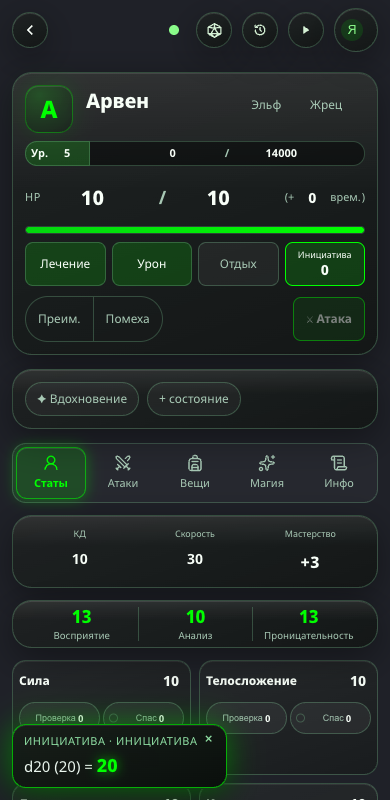
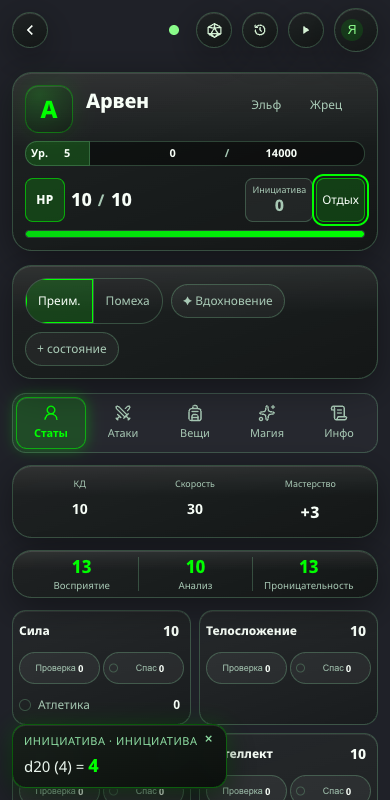
feat(character-sheet): the rest ends the HP line on a phone; the roll mode comes before inspiration
On a phone the rest button stands to the right of the initiative roll, in the
HP line, which still fits one row at 320 px with three-digit hit points and
temporary ones. A wide screen keeps the rest among the states.

In the states block advantage / disadvantage now comes first, then
inspiration.

diff --git a/src/components/DndCharacterSheet.vue b/src/components/DndCharacterSheet.vue
@@ -46,7 +46,9 @@
         <!-- The maximum is set once (and on a level-up): a field in setup mode only. -->
         <input type="number" min="1" :readonly="locked" :tabindex="locked ? -1 : undefined" :value="data.combat.maxHp" :style="{ width: numberWidth(data.combat.maxHp) }" aria-label="Максимум HP" @change="setNumber(data.combat, 'maxHp', evVal($event), 1)" />
         <label class="dnd-cs-temp-hp" :class="{ 'is-none': !data.combat.temporaryHp }" title="Временные HP">(+<input type="number" readonly tabindex="-1" :value="data.combat.temporaryHp" :style="{ width: numberWidth(data.combat.temporaryHp, 2) }" aria-label="Временные HP" /><span>врем.</span>)</label>
-        <button type="button" class="dnd-cs-init-button" aria-label="Бросить инициативу" title="Бросить инициативу: d20 + модификатор" @click="roll('initiative', 'Инициатива', initiative)"><span>Инициатива</span><b>{{ formatModifier(initiative) }}</b></button>
+        <button type="button" class="dnd-cs-init-button" aria-label="Бросить инициативу" title="Бросить инициативу: d20 + модификатор" @click="roll('initiative', 'Инициатива', initiative)"><span>{{ tiny ? 'Иниц.' : 'Инициатива' }}</span><b>{{ formatModifier(initiative) }}</b></button>
+        <!-- Phone: the rest ends the HP line (a wide screen keeps it among the states). One button for both rests: which one is chosen in the dialog. -->
+        <button v-if="phone" type="button" class="dnd-cs-rest-button dnd-cs-rest-inline" :disabled="readonly" :title="'Короткий или длинный отдых. Кости хитов: ' + hitDiceLeft + ' из ' + data.identity.level" @click="restKind = 'short'">Отдых</button>
       </div>
       <div class="dnd-cs-hp-bar" role="progressbar" :aria-valuenow="hpPercent" aria-valuemin="0" aria-valuemax="100"><span :style="{ width: hpPercent + '%' }"></span></div>
       <div v-if="deathStatus !== 'none'" class="dnd-cs-death" role="group" aria-label="Спасброски от смерти">
@@ -74,9 +76,11 @@
     <div class="dnd-cs-status-row">
       <DndPassiveScores v-if="!phone" :items="passives" />
       <DndCharacterStates :combat="data.combat" :readonly="readonly" @change="change">
-        <DndRollBar class="dnd-cs-roll-bar" :mode="rollMode" :history-count="rollHistory.length" :show-log="!rolls" @set-mode="setRollMode" @open-log="rollLogOpen = true" />
+        <template #before>
+          <DndRollBar class="dnd-cs-roll-bar" :mode="rollMode" :history-count="rollHistory.length" :show-log="!rolls" @set-mode="setRollMode" @open-log="rollLogOpen = true" />
+        </template>
         <!-- One button for both rests: which one is chosen in the dialog. -->
-        <button type="button" class="dnd-cs-rest-button" :disabled="readonly" :title="'Короткий или длинный отдых. Кости хитов: ' + hitDiceLeft + ' из ' + data.identity.level" @click="restKind = 'short'">Отдых</button>
+        <button v-if="!phone" type="button" class="dnd-cs-rest-button" :disabled="readonly" :title="'Короткий или длинный отдых. Кости хитов: ' + hitDiceLeft + ' из ' + data.identity.level" @click="restKind = 'short'">Отдых</button>
       </DndCharacterStates>
     </div>
 
@@ -516,7 +520,7 @@ export default defineComponent({
     };
 
     // The numbers of the HP line take the room their digits need and no more: the line must fit a 320 px screen.
-    const numberWidth = (value: unknown, padding = 8) => `calc(${String(Math.trunc(Number(value) || 0)).length}ch + ${padding}px)`;
+    const numberWidth = (value: unknown, padding = 6) => `calc(${String(Math.trunc(Number(value) || 0)).length}ch + ${padding}px)`;
     const hpOpen = ref(false);
     const applyHp = (action: HpAction, amount: number) => {
       if (props.readonly || !hpOpen.value || !isHpAmount(amount)) return;
@@ -574,6 +578,8 @@ export default defineComponent({
     const phone = useMedia('(max-width: 760px)');
     // Five equal segments are narrower than the longest names up to this width: short names there.
     const narrow = useMedia('(max-width: 559px)');
+    // The HP line holds five things on a phone; under this width the initiative's name is cut short to keep them in one row.
+    const tiny = useMedia('(max-width: 379px)');
     // On a wide screen the abilities are always in view on the left and have no tab: the attacks open instead.
     const section = computed<SheetSection>(() => {
       const stored = SECTION_OF[props.data.activeTab] ?? 'abilities';
@@ -752,7 +758,7 @@ export default defineComponent({
       // each being stretched to a tall neighbour's height.
       abilities: (['strength', 'constitution', 'dexterity', 'intelligence', 'wisdom', 'charisma'] as const)
         .map((k) => DND_ABILITIES.find((a) => a.key === k)!),
-      tabs, phone, section, setSection, setCoins,
+      tabs, phone, tiny, section, setSection, setCoins,
       personalityFields: [
         { key: 'traits', label: 'Черты характера' }, { key: 'ideals', label: 'Идеалы' }, { key: 'bonds', label: 'Привязанности' }, { key: 'flaws', label: 'Слабости' },
       ] as { key: keyof DndCharacterSheetData['personality']; label: string }[],
@@ -1223,7 +1229,12 @@ export default defineComponent({
   .dnd-cs-init-button { flex-direction: column; gap: 1px; padding-inline: 6px; }
   .dnd-cs-init-button span { font-size: 9px; line-height: 1.2; }
   .dnd-cs-init-button b { font-size: 14px; line-height: 1.1; }
-  .dnd-cs-hp { gap: 4px; }
+  /* HP, the numbers, initiative, rest: one row down to 320 px. If it ever does not fit, it wraps instead of clipping. */
+  .dnd-cs-hp { gap: 3px; flex-wrap: wrap; row-gap: 6px; }
+  .dnd-cs-hp-button { min-width: 40px; padding-inline: 6px; }
+  .dnd-cs-hp input[type='number'] { font-size: 18px; }
+  .dnd-cs-hp b { font-size: 16px; }
+  .dnd-cs-rest-inline { flex: none; justify-content: center; padding: 5px; border-radius: 8px; background: rgba(var(--dnd-fill-rgb), 0.05); }
   /* Room for the numbers: temporary HP are "(+12)" here, and are not shown at all while there are none. */
   .dnd-cs-temp-hp span { display: none; }
   .dnd-cs-temp-hp.is-none { display: none; }

diff --git a/tests/character-sheet-sections.spec.ts b/tests/character-sheet-sections.spec.ts
@@ -9,7 +9,7 @@ import { serveCharacterSheet } from './support/fake-character-sheet-server';
 
 const SHOTS = process.env.SHOT_DIR;
 
-async function openSheet(page: Page, options: { theme?: 'dark' | 'light'; role?: 'owner' | 'read'; coins?: Record<string, number> } = {}) {
+async function openSheet(page: Page, options: { theme?: 'dark' | 'light'; role?: 'owner' | 'read'; coins?: Record<string, number>; combat?: Record<string, number> } = {}) {
   const data = createDndCharacterSheet();
   data.identity = { ...data.identity, name: 'Арвен', race: 'Эльф', className: 'Жрец', level: 5 };
   data.abilities.wisdom.score = 16;
@@ -26,6 +26,7 @@ async function openSheet(page: Page, options: { theme?: 'dark' | 'light'; role?:
   data.proficiencies.armor = ['Лёгкие', 'Средние', 'Щиты'];
   data.proficiencies.languages = ['Общий', 'Эльфийский'];
   Object.assign(data.coins, options.coins ?? { gp: 15, sp: 4, cp: 2 });
+  Object.assign(data.combat, options.combat ?? {});
   const saved = await serveCharacterSheet(
     page,
     { id: 'hero', title: 'x', templateType: 'dnd-character', data: data as unknown as Record<string, unknown>, createdAt: '', updatedAt: '' },
@@ -256,10 +257,10 @@ for (const width of [320, 390]) {
     await openSheet(page);
     // The top card has no row of actions: the HP button and the initiative roll end the HP line.
     await expect(page.locator('.dnd-cs-hp-actions')).toHaveCount(0);
-    await expect(page.locator('.dnd-cs-topcard').getByRole('button', { name: /Лечение|Урон|Отдых|Атака/ })).toHaveCount(0);
+    await expect(page.locator('.dnd-cs-topcard').getByRole('button', { name: /Лечение|Урон|Атака/ })).toHaveCount(0);
     const line = (await page.locator('.dnd-cs-hp').boundingBox())!;
     expect(line.x + line.width).toBeLessThanOrEqual(width);
-    for (const selector of ['.dnd-cs-hp-button', '.dnd-cs-init-button']) {
+    for (const selector of ['.dnd-cs-hp-button', '.dnd-cs-init-button', '.dnd-cs-hp .dnd-cs-rest-button']) {
       const box = (await page.locator(selector).boundingBox())!;
       expect(box.height).toBeGreaterThanOrEqual(44);
       expect(box.x).toBeGreaterThanOrEqual(line.x - 1);
@@ -269,10 +270,15 @@ for (const width of [320, 390]) {
     await page.getByRole('button', { name: 'Бросить инициативу', exact: true }).click();
     await expect(page.locator('.dnd-cs-toast')).toContainText('Инициатива');
 
-    // Advantage / disadvantage and the rest live among the states, inside the screen.
+    // HP, the numbers, the initiative and the rest: one row.
+    const rowOf = async (selector: string) => { const box = (await page.locator(selector).boundingBox())!; return Math.round(box.y + box.height / 2); };
+    const rows = [await rowOf('.dnd-cs-hp-button'), await rowOf('.dnd-cs-init-button'), await rowOf('.dnd-cs-hp .dnd-cs-rest-button')];
+    expect(Math.max(...rows) - Math.min(...rows)).toBeLessThanOrEqual(2);
+
+    // Advantage / disadvantage live among the states, inside the screen; the rest is in the HP line here.
     const states = page.getByRole('region', { name: 'Состояния' });
     await expect(states.locator('.dnd-roll-mode button')).toHaveText(['Преим.', 'Помеха']);
-    await expect(states.getByRole('button', { name: 'Отдых', exact: true })).toBeVisible();
+    await expect(states.getByRole('button', { name: 'Отдых', exact: true })).toHaveCount(0);
     for (const control of await states.getByRole('button').all()) {
       const box = (await control.boundingBox())!;
       expect(box.x).toBeGreaterThanOrEqual(0);
@@ -281,7 +287,7 @@ for (const width of [320, 390]) {
     }
     await states.getByRole('button', { name: 'Преим.' }).click();
     await expect(states.getByRole('button', { name: 'Преим.' })).toHaveAttribute('aria-pressed', 'true');
-    await states.getByRole('button', { name: 'Отдых', exact: true }).click();
+    await page.getByRole('button', { name: 'Отдых', exact: true }).click();
     await expect(page.getByRole('dialog', { name: 'Короткий отдых' })).toBeVisible();
     await page.keyboard.press('Escape');
 
@@ -311,6 +317,31 @@ for (const width of [320, 390]) {
     await expect(page.getByRole('button', { name: /состояние/ })).toBeVisible();
   });
 }
+
+test('the HP line holds three-digit hit points with temporary ones on a 320 px screen', async ({ page }) => {
+  await page.setViewportSize({ width: 320, height: 800 });
+  await openSheet(page, { combat: { currentHp: 127, maxHp: 144, temporaryHp: 12 } });
+  const line = page.locator('.dnd-cs-hp');
+  const lineBox = (await line.boundingBox())!;
+  expect(lineBox.x + lineBox.width).toBeLessThanOrEqual(320);
+  const parts = await line.locator(':scope > *').evaluateAll((elements) => elements.map((element) => {
+    const box = element.getBoundingClientRect();
+    return { name: element.getAttribute('aria-label') ?? element.textContent, left: box.left, right: box.right, middle: Math.round(box.top + box.height / 2), clipped: element.scrollWidth > element.clientWidth + 1 };
+  }));
+  // Nothing clipped, nothing outside the line, and - with room found for it - still one row.
+  for (const part of parts) {
+    expect(part.clipped, String(part.name)).toBe(false);
+    expect(part.left, String(part.name)).toBeGreaterThanOrEqual(lineBox.x - 1);
+    expect(part.right, String(part.name)).toBeLessThanOrEqual(lineBox.x + lineBox.width + 1);
+  }
+  const middles = parts.map((part) => part.middle);
+  expect(Math.max(...middles) - Math.min(...middles)).toBeLessThanOrEqual(2);
+  await expect(page.getByLabel('Текущие HP', { exact: true })).toHaveValue('127');
+  await expect(page.getByLabel('Временные HP', { exact: true })).toBeVisible();
+  await expect(page.locator('.dnd-cs-init-button span')).toHaveText('Иниц.');
+  expect(await noSideScroll(page)).toBe(true);
+  if (SHOTS) await page.locator('.dnd-cs-topcard').screenshot({ path: `${SHOTS}/hp-line-320-worst.png` });
+});
 
 test('on a wide screen armor class, speed, proficiency and the passive scores stay at the top', async ({ page }) => {
   await page.setViewportSize({ width: 1280, height: 900 });

diff --git a/src/components/DndCharacterSheet.sections.test.ts b/src/components/DndCharacterSheet.sections.test.ts
@@ -247,12 +247,12 @@ describe('what is looked up, and the initiative roll', () => {
     const states = wrapper!.get('[aria-label="Состояния"]');
     expect(states.findAll('.dnd-roll-mode button').map((button) => button.text())).toEqual(['Преим.', 'Помеха']);
     expect(states.get('.dnd-cs-rest-button').text()).toBe('Отдых');
-    // The fixed controls come first; conditions and "+ состояние" follow, so adding one moves nothing before it.
+    // How the next d20 is rolled, then inspiration and the rest: the fixed controls come first; conditions and "+ состояние" follow, so adding one moves nothing before it.
     data.combat.conditions = ['poisoned'];
     await wrapper!.vm.$nextTick();
     const order = Array.from(wrapper!.get('.dnd-cs-state-list').element.children).map((child) => child.textContent!.replace(/\s+/g, ' ').trim());
     // (A sheet used on its own, as here, keeps its roll log button next to the roll mode; the page moves it to the header.)
-    expect(order).toEqual(['✦ Вдохновение', 'Преим.ПомехаЖурнал', 'Отдых', 'Отравлен ×', '+ состояние']);
+    expect(order).toEqual(['Преим.ПомехаЖурнал', '✦ Вдохновение', 'Отдых', 'Отравлен ×', '+ состояние']);
     data.combat.conditions = [];
     await wrapper!.vm.$nextTick();
     expect(wrapper!.findAll('.dnd-roll-mode')).toHaveLength(1);
@@ -263,6 +263,28 @@ describe('what is looked up, and the initiative roll', () => {
     await states.get('.dnd-cs-rest-button').trigger('click');
     expect(document.body.querySelector('.dnd-rest-dialog')).not.toBeNull();
     expect(data.combat.conditions).toEqual([]);
+  });
+
+  it('on a phone ends the HP line with the rest, after the initiative roll', async () => {
+    screenWidth(390);
+    open((sheet) => { sheet.activeTab = 'abilities'; });
+    const line = Array.from(wrapper!.get('.dnd-cs-hp').element.children);
+    expect(line[line.length - 2]!.getAttribute('aria-label')).toBe('Бросить инициативу');
+    expect(line[line.length - 1]!.textContent).toBe('Отдых');
+    expect(line[line.length - 1]!.classList.contains('dnd-cs-rest-inline')).toBe(true);
+    // One rest button, and it is not among the states here.
+    expect(wrapper!.findAll('.dnd-cs-rest-button')).toHaveLength(1);
+    expect(wrapper!.find('[aria-label="Состояния"] .dnd-cs-rest-button').exists()).toBe(false);
+    expect(wrapper!.get('.dnd-cs-init-button span').text()).toBe('Инициатива');
+    await wrapper!.get('.dnd-cs-rest-button').trigger('click');
+    expect(document.body.querySelector('.dnd-rest-dialog')).not.toBeNull();
+  });
+
+  it('cuts the initiative\'s name short on the narrowest phones, keeping its label', () => {
+    screenWidth(320);
+    open();
+    expect(wrapper!.get('.dnd-cs-init-button span').text()).toBe('Иниц.');
+    expect(wrapper!.get('.dnd-cs-init-button').attributes('aria-label')).toBe('Бросить инициативу');
   });
 
   it('on a wide screen keeps armor class, speed, proficiency and the passive scores at the top', () => {

diff --git a/tests/character-sheet-header.spec.ts b/tests/character-sheet-header.spec.ts
@@ -42,9 +42,21 @@ for (const width of [320, 1280]) {
     const hpLine = (await page.locator('.dnd-cs-hp').boundingBox())!;
     const hpButtonBox = (await hpButton.boundingBox())!;
     const initiative = (await page.getByRole('button', { name: 'Бросить инициативу', exact: true }).boundingBox())!;
-    // HP on the left of the line, the initiative roll on its right, nothing clipped.
+    // HP on the left of the line, the initiative roll on its right (on a phone the rest follows it), nothing clipped.
     expect(hpButtonBox.x - hpLine.x).toBeLessThanOrEqual(1);
-    expect(hpLine.x + hpLine.width - (initiative.x + initiative.width)).toBeLessThanOrEqual(1);
+    const rest = page.getByRole('button', { name: 'Отдых', exact: true });
+    await expect(rest).toHaveCount(1);
+    const restBox = (await rest.boundingBox())!;
+    if (width <= 760) {
+      // One row: HP ... initiative, rest.
+      expect(Math.abs(restBox.y + restBox.height / 2 - (initiative.y + initiative.height / 2))).toBeLessThanOrEqual(2);
+      expect(restBox.x).toBeGreaterThanOrEqual(initiative.x + initiative.width);
+      expect(hpLine.x + hpLine.width - (restBox.x + restBox.width)).toBeLessThanOrEqual(1);
+      expect(restBox.height).toBeGreaterThanOrEqual(44);
+    } else {
+      expect(hpLine.x + hpLine.width - (initiative.x + initiative.width)).toBeLessThanOrEqual(1);
+      await expect(page.getByRole('region', { name: 'Состояния' }).getByRole('button', { name: 'Отдых', exact: true })).toBeVisible();
+    }
     expect(Math.abs(hpButtonBox.y + hpButtonBox.height / 2 - (initiative.y + initiative.height / 2))).toBeLessThanOrEqual(2);
     expect(hpLine.x + hpLine.width).toBeLessThanOrEqual(width);
     for (const field of [current, page.getByLabel('Максимум HP', { exact: true })]) expect(await field.evaluate((el) => el.scrollWidth <= el.clientWidth + 1)).toBe(true);

diff --git a/src/components/DndCharacterStates.vue b/src/components/DndCharacterStates.vue
@@ -1,6 +1,8 @@
 <template>
   <section ref="root" class="dnd-cs-states dnd-glass" aria-label="Состояния">
     <div class="dnd-cs-state-list">
+      <!-- How the next d20 is rolled comes first (the sheet puts advantage / disadvantage here). -->
+      <slot name="before" />
       <button type="button" class="dnd-cs-toggle" :class="{ on: combat.inspiration }" :disabled="readonly" :aria-pressed="combat.inspiration" @click="toggleInspiration">✦ Вдохновение</button>
       <!-- What else a turn is set up with (the sheet puts advantage / disadvantage and the rest here).
            Before the conditions: these stay put while the list of conditions grows after them. -->

diff --git a/docs/character-sheet-style.md b/docs/character-sheet-style.md
@@ -28,7 +28,7 @@
 | Диалог короткого отдыха | [снимок](images/character-sheet/sheet-rest-short.png) | |
 | Диалог длинного отдыха | [снимок](images/character-sheet/sheet-rest-long.png) | |
 | Кнопка «Отдых» и выбор отдыха в диалоге | [снимок](images/character-sheet/sheet-rest-choice.png) | |
-| Верх листа на телефоне, 320 px: строка HP, состояния | [снимок](images/character-sheet/sheet-phone-top-320.png) | |
+| Строка HP на 320 px: трёхзначные хиты, временные, инициатива, отдых | [снимок](images/character-sheet/sheet-phone-hp-line-320.png) | |
 | Верх листа на десктопе | [снимок](images/character-sheet/sheet-desktop-top.png) | |
 | Диалог HP | | [снимок](images/character-sheet/sheet-hp-dialog.png) |
 | Телефон, раздел «Характеристики» | [снимок](images/character-sheet/sheet-phone-section-abilities.png) | |
@@ -301,15 +301,19 @@
 - **Верхняя карточка — имя, опыт и одна строка HP.** Ряда кнопок в ней нет. Строка HP:
   слева кнопка «HP» (всё, что меняет хиты), за ней текущие и максимальные хиты и, в
   скобках, временные; справа, в конце строки, — бросок инициативы («Инициатива» и
-  модификатор; на телефоне название над числом). Под строкой полоса HP. Строка обязана
-  помещаться на 320 px с трёхзначными хитами: числа занимают ровно свою ширину, на
-  телефоне временные HP пишутся коротко, «(+12)», и не показываются, пока их нет.
+  модификатор; на телефоне название над числом), а на телефоне за ним ещё и «Отдых».
+  Под строкой полоса HP. Строка обязана помещаться **в один ряд** на 320 px с
+  трёхзначными хитами и временными: числа занимают ровно свою ширину, на телефоне
+  временные HP пишутся коротко, «(+12)», и не показываются, пока их нет, а уже 380 px
+  «Инициатива» сокращается до «Иниц.». Если строка всё же не поместится, она
+  переносится, а не обрезается.
 - **Хиты на листе читают, а не вписывают.** Текущие и временные HP не редактируются
   нигде; максимум — поле только в режиме настройки. Меняются хиты кнопкой «HP».
-- **Преимущество / помеха и «Отдых» стоят в блоке состояний**, сразу после «Вдохновения»
-  и перед состояниями: постоянные кнопки не сдвигаются, когда список состояний растёт. Это
-  то, чем настраивают ход, а не то, что бросают. Кнопки «Атака» в шапке листа нет —
-  атаки бросают из раздела «Атаки».
+- **Блок состояний начинается с того, чем настраивают ход.** Порядок: «Преим. / Помеха»,
+  «Вдохновение», на широком экране — «Отдых», затем добавленные состояния и
+  «+ состояние». Постоянные кнопки стоят первыми и не сдвигаются, когда список
+  состояний растёт. На телефоне «Отдых» стоит в строке HP, а не здесь. Кнопки «Атака»
+  в шапке листа нет — атаки бросают из раздела «Атаки».
 - КД, скорость и мастерство — значения, в которые заглядывают: на широком экране они
   стоят в верхней карточке под полосой HP, на телефоне уходят в раздел «Характеристики»
   отдельной панелью, под ней пассивные характеристики, ниже — сами характеристики.
@@ -586,6 +590,8 @@
    `--ui-surface-solid` с радиусом 12. Образец для новых меню — раздел «Меню», а не они.
 9. **Стеклянное меню аккаунта — только на странице листа.** На дашборде, канвасе и в
    документах оно в прежнем виде; выпадающие списки вне листа — системные.
+13. **Снимок верха листа на десктопе** (`sheet-desktop-top.png`) снят до перестановки:
+   на нём «Вдохновение» стоит перед «Преим. / Помеха».
 12. **Снимок диалога урона и общие виды листа** (`sheet-desktop-dialog.png`,
    `sheet-desktop-*.png`, `sheet-phone-*.png` без «section» и «top» в имени) сняты с
    прежней шапкой: ряд «Лечение / Урон», кнопка «Атака», редактируемые HP.
